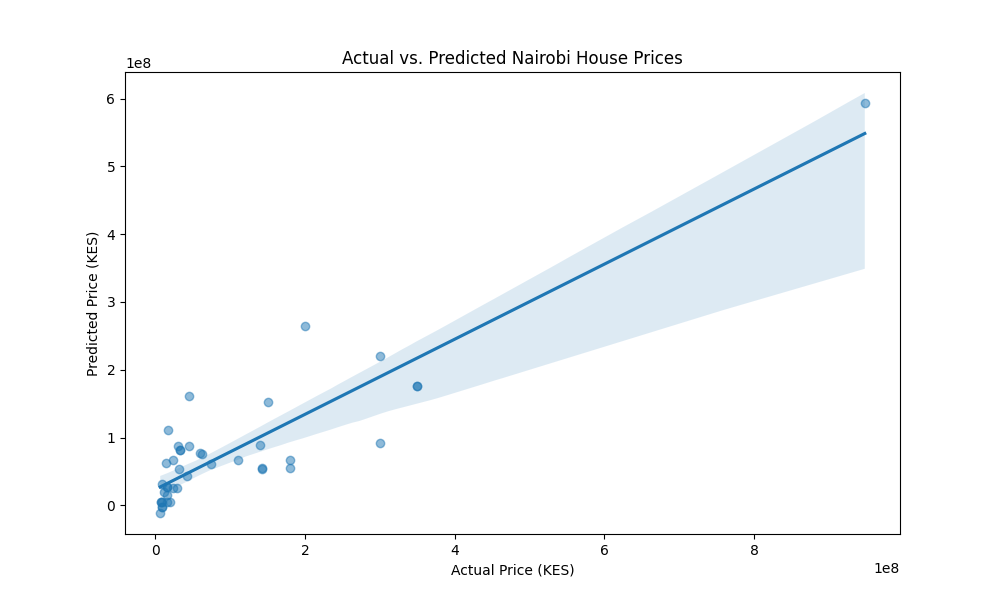
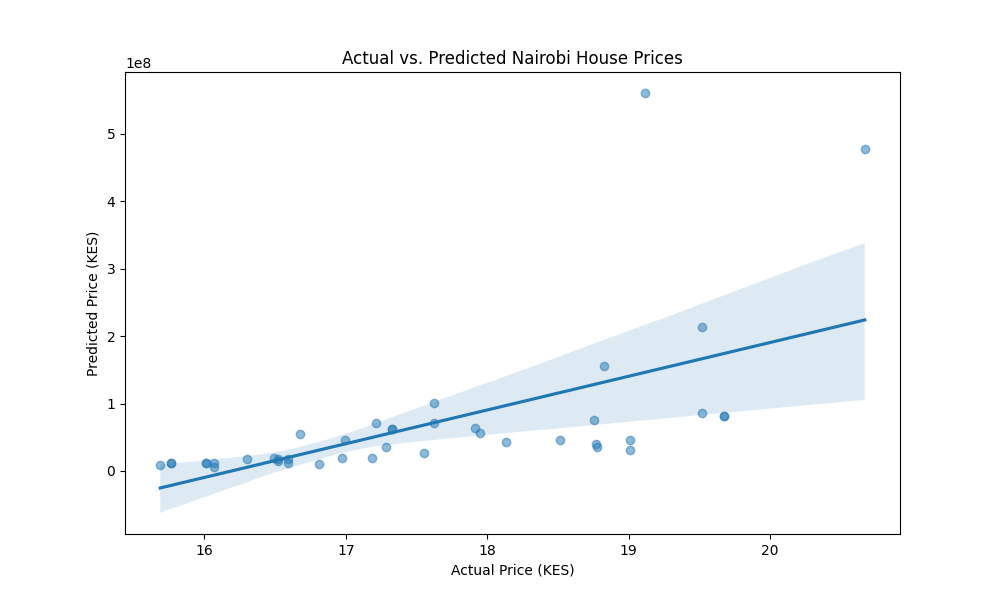
Refine model with log transformation and updated performance metrics

diff --git a/Price_model.py b/Price_model.py
@@ -53,8 +53,11 @@ from sklearn.metrics import mean_absolute_error, r2_score
 # FEATURE ENGINEERING ---
 # Convert 'Location' into numeric columns (One-Hot Encoding)
 # We use Bedroom, bathroom, and Location as our deterministic factors
+# --- 1. LOG TRANSFORMATION ---
+# We transform the price to handle skewness in the Nairobi market
+import numpy as np
 X = pd.get_dummies(df[['Bedroom', 'bathroom', 'Location']], drop_first=True)
-y = df['Price']
+y = np.log(df['Price'])
 
 # DATA SPLITTING ---
 # We keep 20% of the data aside to test the model's accuracy
@@ -65,11 +68,17 @@ model = LinearRegression()
 model.fit(X_train, y_train)
 
 # MODEL EVALUATION ---
-predictions = model.predict(X_test)
-mae = mean_absolute_error(y_test, predictions)
-r2 = r2_score(y_test, predictions)
+predictions_log = model.predict(X_test)
 
-print(f"\n--- Model Performance ---")
+# Use np.exp() to turn log-predictions back into real KES
+predictions = np.exp(predictions_log)
+actual_prices = np.exp(y_test)
+
+# Calculate error based on real Shillings
+mae = mean_absolute_error(actual_prices, predictions)
+r2 = r2_score(y_test, predictions_log) # R2 is usually calculated on the trained scale
+
+print(f"\n--- Model Performance (Refined) ---")
 print(f"Average Error (MAE): KES {mae:,.0f}")
 print(f"R-Squared Score: {r2:.2f}")
 
@@ -104,3 +113,13 @@ def predict_my_house(beds, baths, location):
 # Example Test: 4 Bedroom, 4 Bathroom in Runda
 est_price = predict_my_house(4, 4, 'Runda')
 print(f"\nEstimated Price for 4BR in Runda: KES {est_price:,.0f}")
+
+# visualization for GitHub documentation
+plt.figure(figsize=(10, 6))
+sns.regplot(x=y_test, y=predictions, scatter_kws={'alpha':0.5})
+plt.title('Actual vs. Predicted Nairobi House Prices')
+plt.xlabel('Actual Price (KES)')
+plt.ylabel('Predicted Price (KES)')
+plt.savefig('model_accuracy_plot.png')
+# Instead of printing 'est_price', print the exponent of the result
+print(f"Estimated Price for 4BR in Runda: KES {np.exp(est_price):,.0f}")

diff --git a/README.md b/README.md
@@ -14,3 +14,8 @@ This project uses Multiple Linear Regression to analyze and predict property pri
  
 ## Visualizing Accuracy 
 ![Model Accuracy Plot](model_accuracy_plot.png) 
+ 
+## Refined Model: Log-Linear Regression 
+* **Log Transformation:** Applied to handle the high variance in Nairobi house prices (from KES 3.5M to 948M). 
+* **Interpretation:** The model now predicts percentage changes. A one-bedroom increase correlates with a **56.5%** rise in property value. 
+* **R-Squared (0.65):** While lower than the linear model, this provides a more generalized prediction that is less biased by extreme luxury outliers. 
